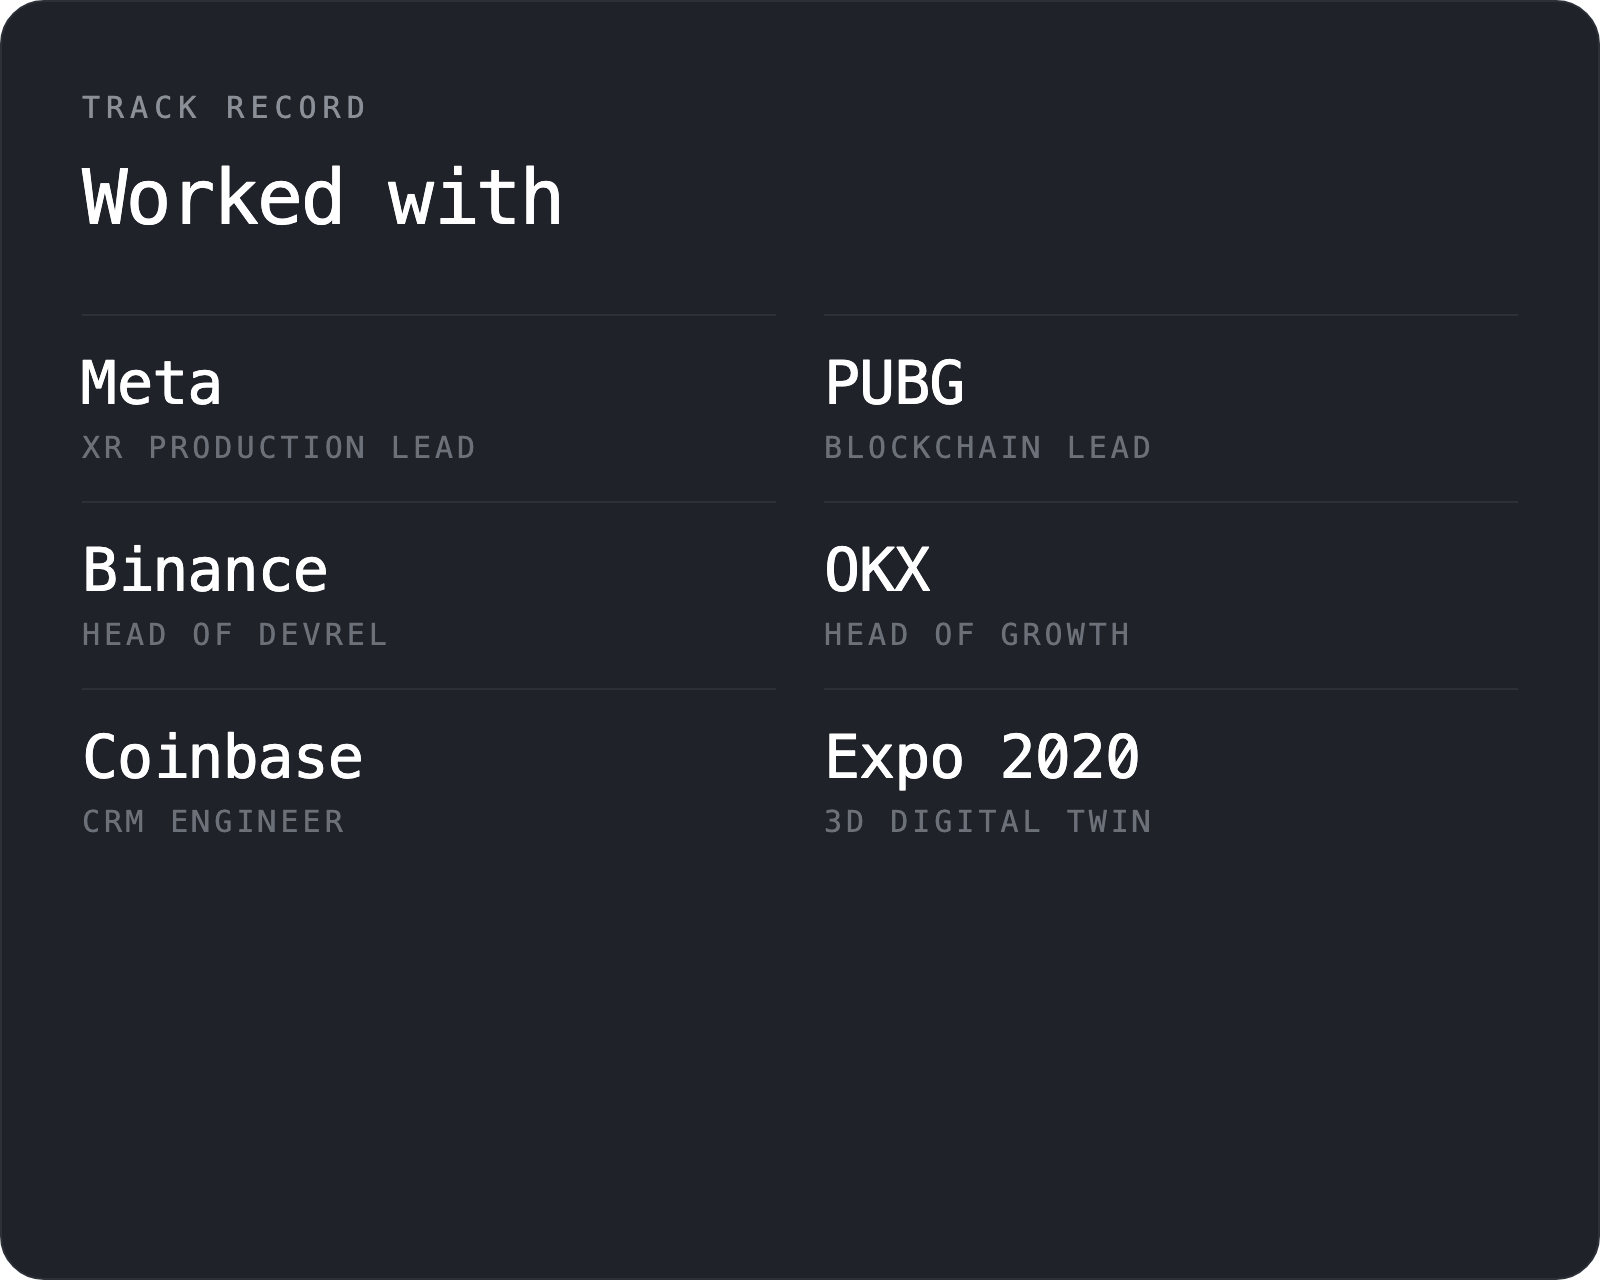
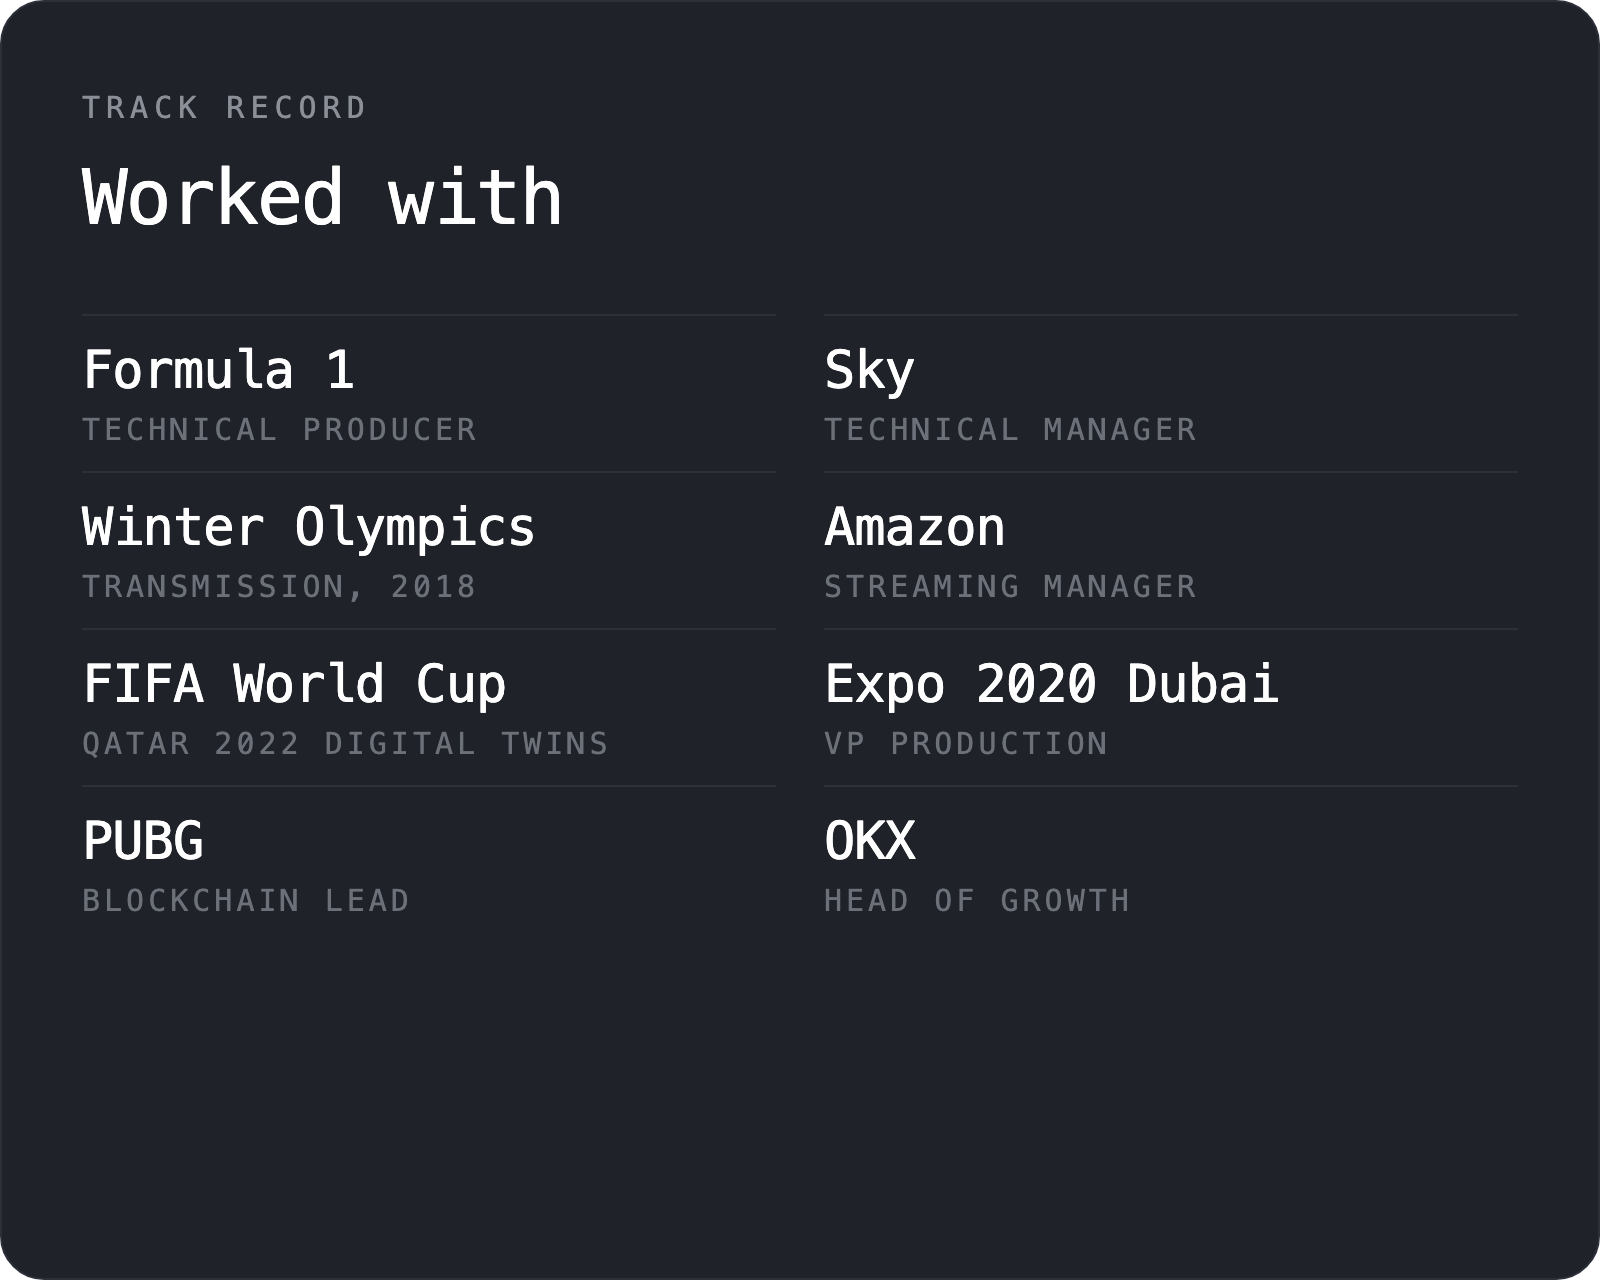
Worked-with card: confirmed roles only

diff --git a/_build/card.html b/_build/card.html
@@ -14,8 +14,8 @@ html, body { width: 800px; height: 640px; background: transparent; }
 .title { font: 400 38px var(--mono); letter-spacing: -1px; color: var(--fg); margin-bottom: 10px; }
 .line { font: 400 21px/1.35 var(--sans); color: var(--muted); }
 .receipts { flex: 1; padding: 44px 40px; display: flex; flex-direction: column; }
-.names { margin-top: 26px; display: grid; grid-template-columns: 1fr 1fr; gap: 18px 24px; }
-.names div { font: 400 30px var(--mono); color: var(--fg); letter-spacing: -0.5px; border-top: 1px solid var(--line); padding-top: 16px; }
+.names { margin-top: 26px; display: grid; grid-template-columns: 1fr 1fr; gap: 12px 24px; }
+.names div { font: 400 26px var(--mono); color: var(--fg); letter-spacing: -0.5px; border-top: 1px solid var(--line); padding-top: 12px; }
 .names span { display: block; font: 400 15px var(--mono); letter-spacing: 2px; color: var(--dim); text-transform: uppercase; margin-top: 6px; }
 </style></head>
 <body><div class="card" id="c"></div>

diff --git a/README.md b/README.md
@@ -7,7 +7,7 @@ I take products from idea to shipped, on whatever they need to run on: AI agents
 <a href="https://github.com/instruxi-io/enforcer-governor"><img src="assets/card-gvnr.png" width="49%" alt="GVNR: a governor for AI agents"></a>
 <a href="https://laqtaa.app"><img src="assets/card-laqtaa.png" width="49%" alt="Laqtaa: one shared camera for your event"></a>
 <img src="assets/card-proof-of-player.png" width="49%" alt="Proof of Player: concept screens for passkey sign-in and verified-player passes">
-<img src="assets/card-receipts.png" width="49%" alt="Worked with Meta, PUBG, Binance, OKX, Coinbase and Expo 2020">
+<img src="assets/card-receipts.png" width="49%" alt="Worked with Formula 1, Sky, the 2018 Winter Olympics, Amazon, the FIFA World Cup Qatar 2022, Expo 2020 Dubai, PUBG and OKX">
 
 ### What's here
 
